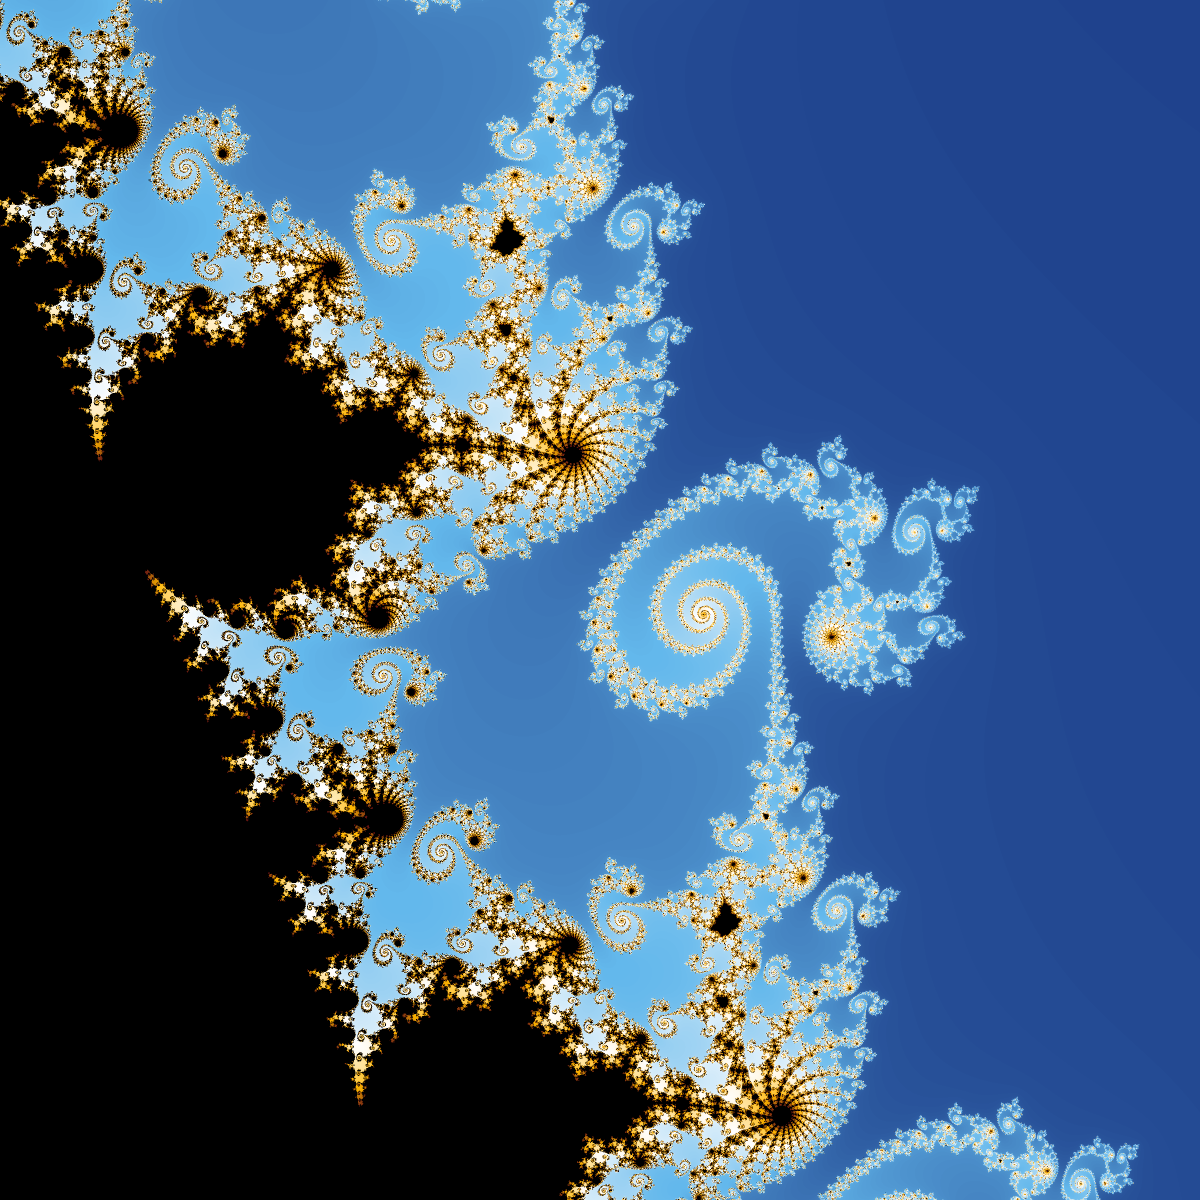
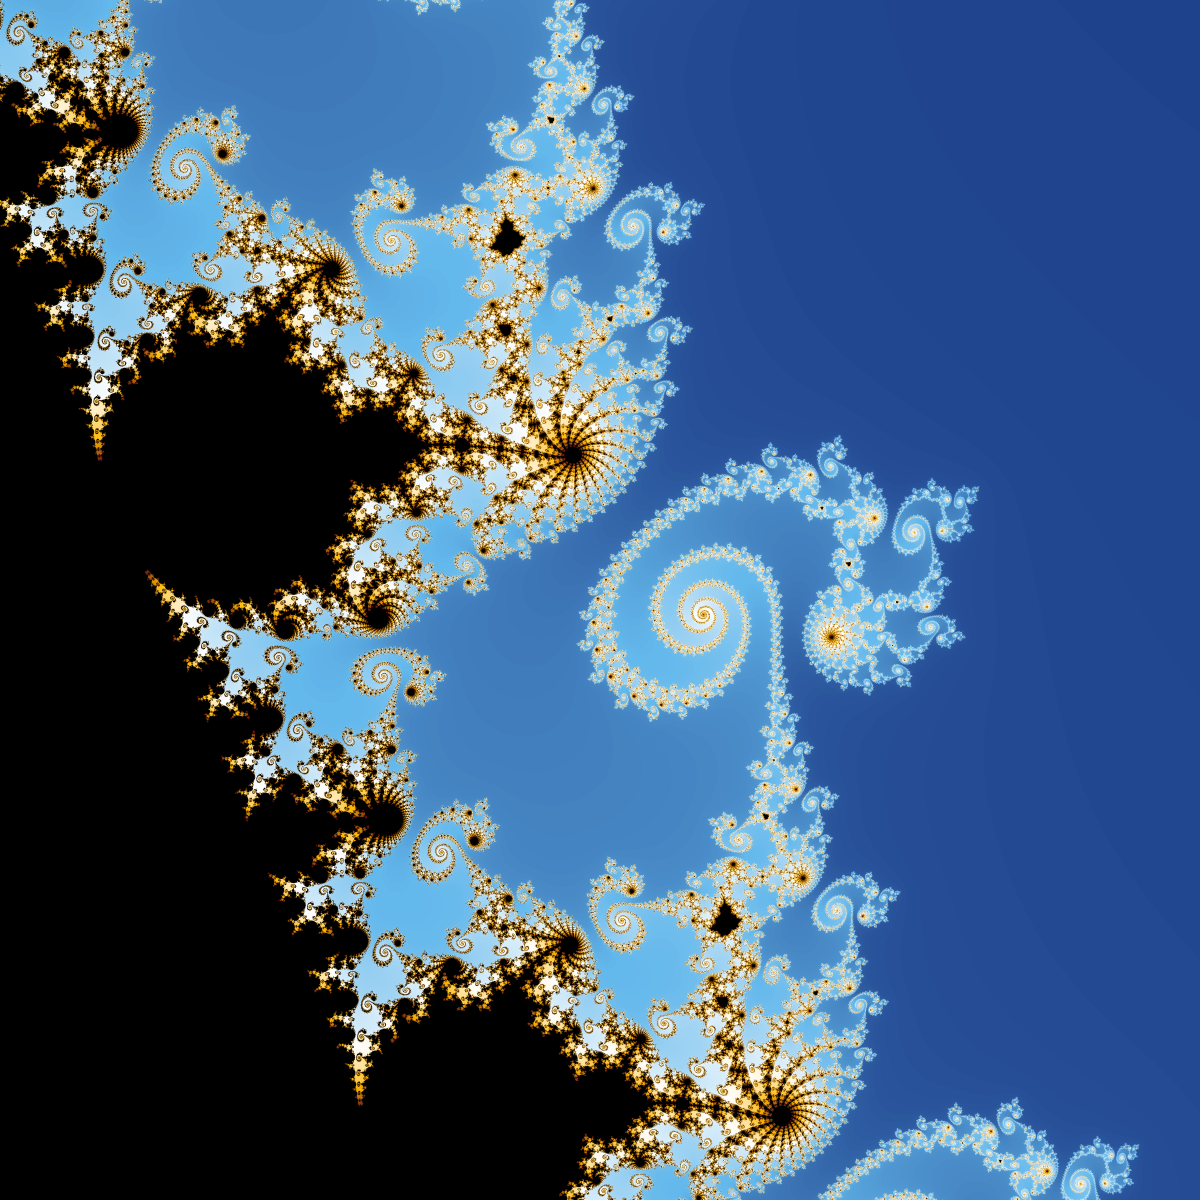
Increase oversampling and update image

diff --git a/src/main.rs b/src/main.rs
@@ -23,7 +23,7 @@ fn main() {
     env_logger::init().unwrap();
     let start_time = time::precise_time_s();
 //    let set_def = SetDefinition::new(-0.77, -0.74, 0.07, 0.11, 1200, 2, 400, 10.0);
-    let set_def = SetDefinition::new(-0.77, -0.76, 0.09, 0.10, 1200, 2, 400, 10.0);
+    let set_def = SetDefinition::new(-0.77, -0.76, 0.09, 0.10, 1200, 4, 400, 10.0);
 //    let set_def = SetDefinition::new(-2.0, 1.0, -1.0, 1.0, 1200, 2, 100, 10.0);
     info!("set_def = {:?}", set_def);
     // TODO use std::env::args() or getopts to specify the number of threads?

diff --git a/README.md b/README.md
@@ -1,5 +1,5 @@
 Mandelbrot Set Generator
 ========================
-This is a very basic Mandelbrot set generator written in Rust for fun.
+A basic Mandelbrot set generator written in Rust for fun.
 
 ![](mandelbrot.png)
